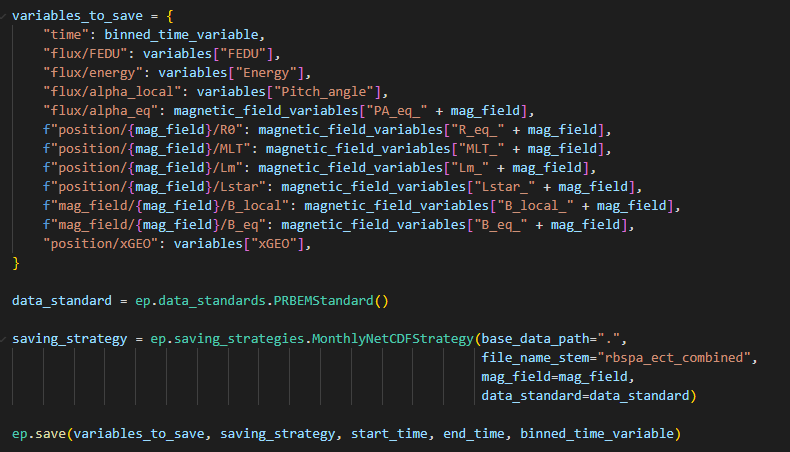
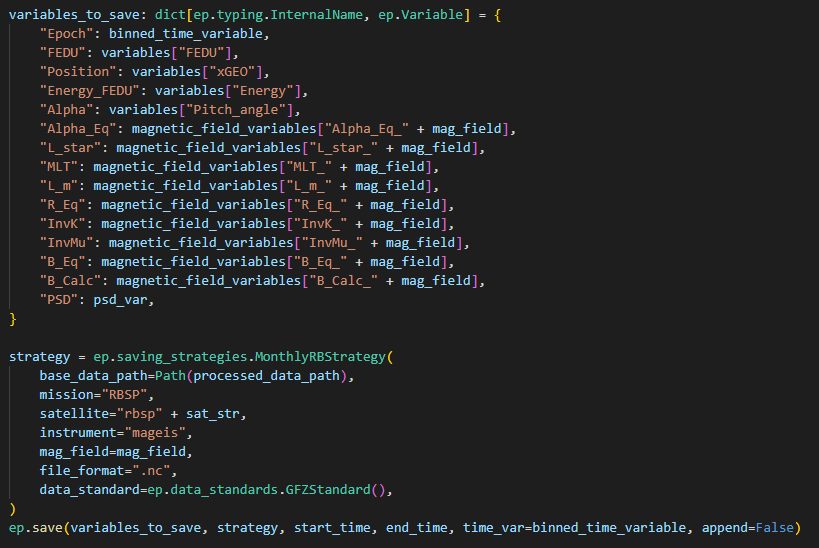
Update test data  (#121)
* Added warning when variable is only holding NaN values while saving.

* Updated doc image. Updated .github test to use correct omni test data.

* Updated zenodo record.

Changed region(s): [[0.0, 0.0, 0.8506, 0.5575], [0.0, 0.6195, 0.9722, 0.9912], [0.0, 0.5575, 0.0304, 0.5885]]

diff --git a/el_paso/recipes/rbsp/process_rbsp_mageis_electrons.py b/el_paso/recipes/rbsp/process_rbsp_mageis_electrons.py
@@ -14,13 +14,14 @@ from typing import Literal
 
 import dateutil
 import numpy as np
-from numpy.typing import NDArray
 from astropy import units as u
+from numpy.typing import NDArray
 
 import el_paso as ep
 from el_paso.processing.magnetic_field_utils import InternalFieldModel, IrbemOptions, LstarQuantity
 
 BAD_CHANNELS = (13, 21, 22, 23, 24)
+
 
 def process_rbsp_mageis_electrons(
     start_time: datetime,
@@ -109,7 +110,7 @@ def process_rbsp_mageis_electrons(
         data_path=raw_data_path,
         file_name_stem=file_name_stem,
         extraction_infos=extraction_infos,
-        data_modifier=xgeo_data_modifier,
+        data_modifier=_xgeo_data_modifier,
     )
 
     variables["FEDU"].apply_thresholds_on_data(1e-21)
@@ -200,23 +201,23 @@ def process_rbsp_mageis_electrons(
     ep.save(variables_to_save, strategy, start_time, end_time, time_var=binned_time_variable, append=False)
 
 
-def xgeo_data_modifier(variable_data: dict[str | int, NDArray[np.generic]], extraction_infos: Iterable[ep.ExtractionInfo]) -> dict[str | int, NDArray[np.generic]]:
+def _xgeo_data_modifier(
+    variable_data: dict[str | int, NDArray[np.generic]], extraction_infos: Iterable[ep.ExtractionInfo]  # noqa: ARG001
+) -> dict[str | int, NDArray[np.generic]]:
 
     xgeo_data = variable_data["Position"].astype(np.float64)
 
     if np.max(xgeo_data) > 100:  # unit is km
         xgeo_data = (xgeo_data * u.km).to_value(ep.units.RE)
         variable_data["Position"] = xgeo_data
-    
+
     return variable_data
 
 
 if __name__ == "__main__":
     ep.setup_logging()
 
-    parser = argparse.ArgumentParser(
-        description="Process flux flux data from ECT/MagEIS instrument on VanAllenProbes."
-    )
+    parser = argparse.ArgumentParser(description="Process flux flux data from ECT/MagEIS instrument on VanAllenProbes.")
     parser.add_argument(
         "--start_time",
         type=str,

diff --git a/tests/unittests/test_save.py b/tests/unittests/test_save.py
@@ -1,0 +1,41 @@
+# SPDX-FileCopyrightText: 2026 GFZ Helmholtz Centre for Geosciences
+# SPDX-FileContributor: Bernhard Haas
+#
+# SPDX-License-Identifier: Apache-2.0
+import logging
+from datetime import datetime, timezone
+from pathlib import Path
+from typing import Any
+
+import numpy as np
+import pytest
+from astropy import units as u
+
+import el_paso as ep
+
+rng = np.random.default_rng(1337)
+
+@pytest.mark.basic
+def test_save_raises_warning_when_var_is_empty(tmp_path: Path, caplog: pytest.LogCaptureFixture) -> None:
+
+    variables_to_save: dict[ep.typing.InternalName, Any] = {
+        "FEDU": ep.Variable(original_unit=u.dimensionless_unscaled, data=rng.normal((20, 21))),
+        "Alpha": ep.Variable(original_unit=u.dimensionless_unscaled, data=rng.normal((10, 11))),
+        "B_Calc": ep.Variable(original_unit=u.dimensionless_unscaled, data=np.full((51,), np.nan)),
+    }
+
+    save_path = tmp_path / ("test.nc")
+    strategy = ep.saving_strategies.SingleFileStrategy(file_path=save_path)
+
+    with caplog.at_level(logging.WARNING, logger="ep"):
+        ep.save(
+            variables_to_save,
+            strategy,
+            start_time=datetime(2013, 1, 1, tzinfo=timezone.utc),
+            end_time=datetime(2013, 1, 2, tzinfo=timezone.utc),
+        )
+
+    assert any(
+        r.levelno == logging.WARNING and "Variable B_Calc only holds NaN values!" in r.getMessage()
+        for r in caplog.records
+    )

diff --git a/el_paso/utils.py b/el_paso/utils.py
@@ -57,7 +57,7 @@ def get_el_paso_indices_solar_wind_param_path() -> Path:
     """Return the directory used to store downloaded solar wind index/parameter data.
 
     Resolved from the `EL_PASO_INDICES_SW_PARAM_DATA_PATH` environment variable
-    if set, otherwise defaults to `~/.elpaso/indices_solar_wind`. The directory
+    if set, otherwise defaults to `~/.elpaso/`. The directory
     is created if it does not already exist.
 
     Returns:

diff --git a/el_paso/save.py b/el_paso/save.py
@@ -165,6 +165,9 @@ def _get_data_dict_to_save(
             logger.debug(f"Variable {save_name} does not hold any content! Skipping ...", stacklevel=2)
             continue
 
+        if np.all(np.isnan(data_content)):
+            logger.warning(f"Variable {save_name} only holds NaN values!")
+
         # Save the data_content into a field named by save_name
         data_dict[save_name] = data_content
 
